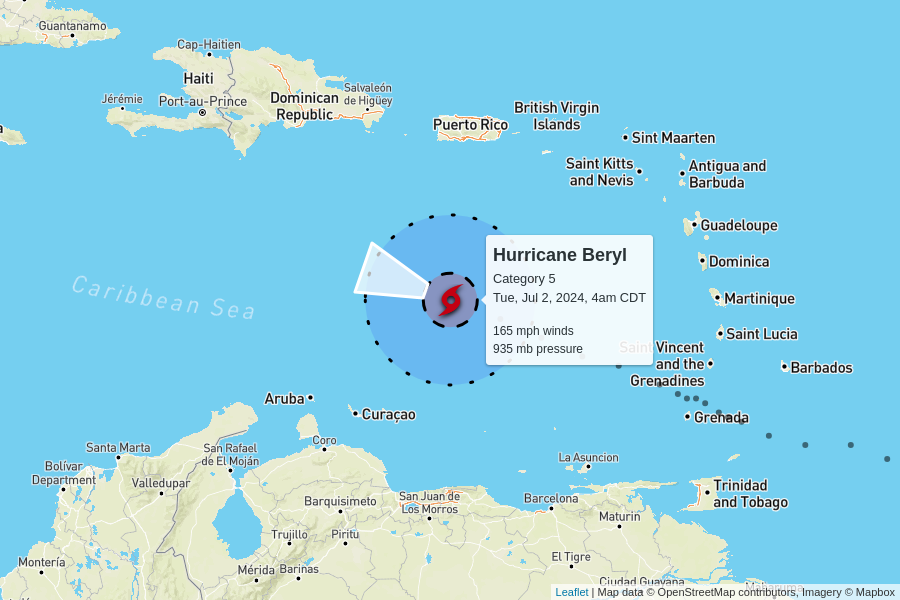
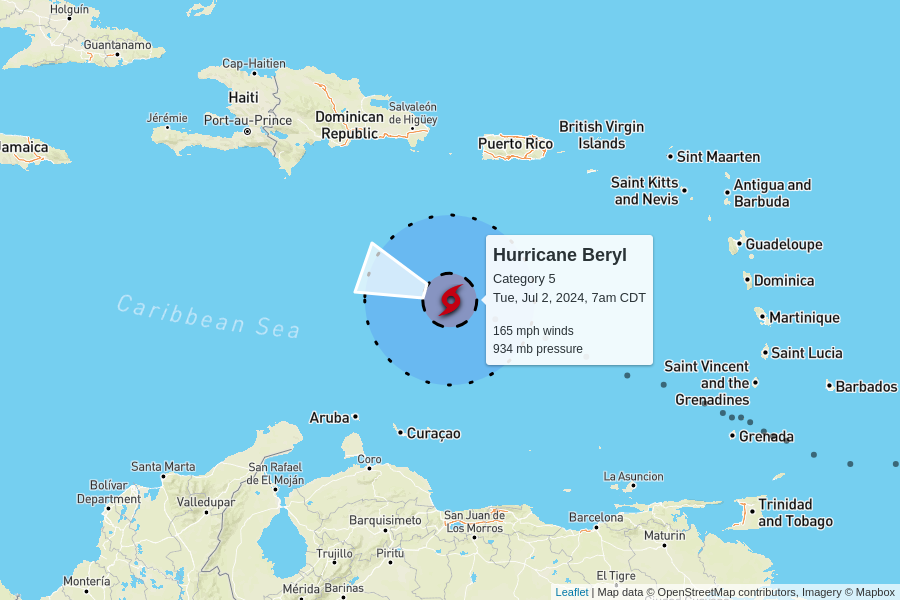
automatic update

diff --git a/docs/index.html b/docs/index.html
@@ -102,7 +102,7 @@
         <td colspan="6" class="storm category-5" >
           <h2>
             Hurricane Beryl - Category 5
-            <p class="updated">last updated <span data-time>2024-07-02T09:00:00.000Z</span></p>
+            <p class="updated">last updated <span data-time>2024-07-02T12:00:00.000Z</span></p>
           </h2>
         </td>
       </tr>
@@ -118,7 +118,7 @@
       <tr>
         <td class="spacer"></td>
         <td>165 mph<br>0 mph since last update</td>
-        <td>935 mb<br>0 mb since last update</td>
+        <td>934 mb<br>-1 mb since last update</td>
         <td>
           22 mph to the west-northwest
           <br/>
